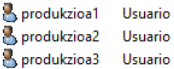
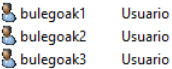
GITBOOK-27: No subject

diff --git a/sistema-eragileak.md b/sistema-eragileak.md
@@ -10,27 +10,33 @@ icon: sitemap
 **Zerbitzari nagusia:** `BUR-WINSERVER`\
 **IP:** `192.168.10.10`
 
-### **1. Domeinuko OU-ak, erabiltzaileak eta taldeak**
+## **1. Domeinuko OU-ak, erabiltzaileak eta taldeak**
 
-Lehenik
+Lehenik domeinuan burdinola izeneko OU bat sortu dugu gero bertan barruan departamentu bakoitzeko  beste bat jartzeko:
 
-Domeinua hiru **organizational unit (OU)** nagusitan banatu dugu:
+bulegoak OU
 
-1. **bulegoak**
+1. **bulegoak taldea**
    * Erabiltzaileak: _bulegoak1, bulegoak2, bulegoak3_
-   * Taldeburuak: _bulegoak1_
-2. **kalitatea**
-   * Erabiltzaileak: _kalitatea1, kalitatea2, kalitatea3_
-   * Taldeburuak: _kalitatea1_
-3. **produkzioa**
+
+kalitatea OU
+
+1.  **kalitatea taldea**
+
+    * Erabiltzaileak: _kalitatea1, kalitatea2, kalitatea3_
+
+
+
+produkzioa OU
+
+1. **produkzioa taldea**
    * Erabiltzaileak: _produkzioa1, produkzioa2, produkzioa3_
-   * Taldeburuak: _produkzioa1_
 
-Gainera, **taldeburuak** izeneko OU bat dago, non talde bakoitzeko lehenengo erabiltzaileak (_bulegoak1, kalitatea1, produkzioa1_) biltzen dira.
+Gainera, **taldeburuak** izeneko OU bat dago, non talde bakoitzeko buruak edo jefeak (_bulegoak1, kalitatea1, produkzioa1_) biltzen diren.
 
-***
+<figure><img src=".gitbook/assets/image.png" alt=""><figcaption></figcaption></figure>
 
-#### 🧠 **OU egituraren arrazoia**
+### **OU egituraren arrazoia**
 
 OU egitura hau sortu dugu **sail edo departamentu bakoitzaren arabera kudeaketa errazteko**.\
 Horrela:
@@ -39,9 +45,7 @@ Horrela:
 * Taldeburuak OU berezian bildu dira, administrazio edo kudeaketa-eskubide handiagoak izateko.
 * Egitura argiak mantentzen du sareko antolaketa eta segurtasuna.
 
-***
-
-#### 🧰 **Zerbitzariaren zerbitzuak (ROLak)**
+### **Zerbitzariaren zerbitzuak (ROLak)**
 
 `BUR-WINSERVER` zerbitzariak honako **zerbitzu eta rolak** eskaintzen ditu:
 
@@ -51,30 +55,21 @@ Horrela:
   * Rangoa: `192.168.10.100 – 192.168.10.200`
 * **Fitxategi- eta inprimagailu-zerbitzua**
 * **Bideo-zerbitzua (Jitsi Meet)**, Ubuntu zerbitzarian (IP: `192.168.10.11`)
+* Proxmox ip-a --> **192.168.10.14**
+* Ubuntu server ip-a Cups --> **192.168.10.15**
+* Bulegoak1,2,3 ip-a --> **DHCP 192.168.10.100<-->200**
+* Kalitatea1,2,3 ip-a --> **DHCP 192.168.10.100<-->200**
+* Produkzioa1,2,3 ip-a --> **DHCP 192.168.10.100<-->200**
 
-## Erabiltzaileak, taldeak eta OUak.
+## **2. Erabiltzaileen Konfigurazioa**
 
-### Erabiltzaileak
+**Hemen ikusten dugu nola bulegoak1 erabiltzaileak domeinuko ip tarte batean dagoen, dns bezala 192.168.10.10 duen eta domeinu barruan nola dagoen. Hau bulegoak OU barruan dago goian ikusi dugun bezala. Beste erabiltzaileak berdin.**
 
-<div align="left"><figure><img src=".gitbook/assets/image.png" alt=""><figcaption></figcaption></figure></div>
+<figure><img src=".gitbook/assets/image (1).png" alt=""><figcaption></figcaption></figure>
 
-<div align="left"><figure><img src=".gitbook/assets/image (1).png" alt=""><figcaption></figcaption></figure></div>
+## 3. GPO Pertsonalizatuak
 
-<div align="left"><figure><img src=".gitbook/assets/image (2).png" alt=""><figcaption></figcaption></figure></div>
-
-Hau dira gure erabiltzaileak
-
-
-
-
-
-
-
-
-
-## GPO
-
-### CMD bloqueo
+### CMD erabilera blokeatu
 
 ![](<.gitbook/assets/unknown (53).png>)
 
@@ -92,7 +87,7 @@ eskuineko click, eta sortutako gpo-a editatzen dugu. Gero joan: Configuracion de
 
 ![](<.gitbook/assets/unknown (56).png>)
 
-### FONDO
+### Fondoa
 
 ![](<.gitbook/assets/unknown (60).png>)
 
@@ -128,11 +123,47 @@ Erabiltzaile batera joaten gara eta ikusten dugu.
 
 (8 karakter minimo, karakter especiales, 1 egun mini aldatu ahal izateko, 30 egun adatu obligatorio)
 
-![](<.gitbook/assets/unknown (67).png>)![](<.gitbook/assets/unknown (68).png>)\
-\
+![](<.gitbook/assets/unknown (67).png>)![](<.gitbook/assets/unknown (68).png>)
 
+## 4. Inprimagailuen Informazioa
 
-###
+#### **Windows sistemetan inprimaketa zerbitzuko portuak eta protokoloak**
+
+Windows sistemetan inprimaketa-zerbitzua (Print Server) **TCP/IP** bidez funtzionatzen du:
+
+* **Protokolo nagusiak:**
+  * **SMB (Server Message Block)** — inprimagailu partekatuetarako
+  * **RAW (portua 9100)** — AppSocket/JetDirect motako inprimagailuak
+  * **IPP (Internet Printing Protocol, portua 631)** — inprimagailu modernoak eta web bidezko zerbitzua
+  * **LPD/LPR (portua 515)** — sistema zaharragoekin bateragarritasuna
+
+#### **Linux sistemetan inprimaketa zerbitzuko portuak eta protokoloak**
+
+Linux-en **CUPS** (Common UNIX Printing System) erabiltzen da:
+
+* **Protokoloak:**
+  * **IPP (631/tcp)** — oinarrizko inprimaketa-protokoloa
+  * **AppSocket / HP JetDirect (9100/tcp)**
+  * **LPD/LPR (515/tcp)**
+* **Administrazio web ataria:**
+  * `http://192.168.10.11:631` (Jitsi Meet zerbitzaria ez bada bakarra, beste Ubuntu bat izan daiteke inprimagailu-zerbitzaria)
+
+#### **Enpresak izango dituen inprimagailuak eta haien kokapena**
+
+| Inprimagailua       | Zerbitzaria / IP                 | Kokapena        | Deskribapena                    |
+| ------------------- | -------------------------------- | --------------- | ------------------------------- |
+| **Imp\_Bulegoak**   | `\\192.168.10.10\Imp_Bulegoak`   | Bulego nagusia  | Bulegoetako dokumentu orokorrak |
+| **Imp\_Kalitatea**  | `\\192.168.10.10\Imp_Kalitatea`  | Kalitate saila  | Txosten eta azterketa teknikoak |
+| **Imp\_Produkzioa** | `\\192.168.10.10\Imp_Produkzioa` | Produkzio gunea | Eguneroko ekoizpen-inprimaketak |
+
+#### 👥 **Erabiltzaile edo erabiltzaile talde bakoitzari esleitutako inprimagailuarekiko baimenak**
+
+| Taldea / OU     | Inprimagailua   | Baimena                                                 |
+| --------------- | --------------- | ------------------------------------------------------- |
+| **bulegoak**    | Imp\_Bulegoak   | Inprimatu ahal dute                                     |
+| **kalitatea**   | Imp\_Kalitatea  | Inprimatu ahal dute                                     |
+| **produkzioa**  | Imp\_Produkzioa | Inprimatu ahal dute                                     |
+| **taldeburuak** | Guztiak         | Inprimatu eta kudeatu ahal dute (administrazio-baimena) |
 
 ## CUPS
 

diff --git a/datu-baseak.md b/datu-baseak.md
@@ -4,11 +4,11 @@ icon: cloud-binary
 
 # Datu Baseak
 
-### 1. DBKSren aukeraketa:
+## 1. DBKSren aukeraketa:
 
 Proiektu honetarako MariaDB terminaletik instalatua aukeratu dugu. XAMPP paketeak ere MariaDB/MySQL dakarren arren, horrek Apache eta PHP bezalako beste osagai batzuk ere biltzen ditu, eta horrek sistema astunagoa eta batzuetan ezegonkorragoa bihurtzen du. Terminal bidezko instalazio zuzenarekin sistema arinagoa, egonkorragoa eta konfigurazioan kontrol handiagoa lortzen dugu.
 
-### 2. Aukeratutakoaren alde onak eta txarrak honakoak dira:
+## 2. Aukeratutakoaren alde onak eta txarrak honakoak dira:
 
 Alde onak:
 
@@ -27,7 +27,7 @@ Alde txarrak:
 
 Laburbilduz, MariaDB aukera sendoa, ekonomikoa eta eskalagarria da, nahiz eta administrazio tekniko gehiago eskatu.
 
-### 3. Honetarako hardware-eskakizunak eta baliabide ekonomikoak:
+## 3. Honetarako hardware-eskakizunak eta baliabide ekonomikoak:
 
 MariaDB zerbitzari baterako gutxieneko baldintzak (enpresa txiki baterako):
 
@@ -41,7 +41,7 @@ Kostuak:
 * Softwarea: 0 € (MariaDB doakoa da).
 * Hardwarea: Ordenagailu edo zerbitzari zahar bat berrerabiliz → kostu minimoa. Zerbitzari fisiko berri bat erosiz → 500 € inguruan. Hodeiko zerbitzaria erabiliz (AWS, Azure, OVH, …) → 10 € – 50 €/hileko instantiaren tamainaren arabera.
 
-### 4. DBKSren instalazioa:
+## 4. DBKSren instalazioa:
 
 Sistema: Ubuntu Server 24.04.1.
 
@@ -59,17 +59,17 @@ mysql\_secure\_installation aukerak (erabili ditugunak):
 * Root urrunetik sartzea baimendu (Disallow root login remotely? → N).
 * Test datu-basea kendu (Y).
 
-### 5. ntzidentziak konpondu ditu eta behar bezala funtzionatzen duela egiaztatu du:
+## 5. ntzidentziak konpondu ditu eta behar bezala funtzionatzen duela egiaztatu du:
 
 Ez dugu inzidentziarik eduki eta behar bezala funtzionatzen du.
 
 <p align="center"><img src=".gitbook/assets/unknown (14).png" alt="" data-size="original"></p>
 
-### 6. Erregistro-fitxategien eta errore-mezuen informazioa azaldu du:
+## 6. Erregistro-fitxategien eta errore-mezuen informazioa azaldu du:
 
 Goiko berdina.
 
-### 7. Lehenetsitako ezaugarriak (portuak, erabiltzailea...) eta zerbitzua pizteko/itzaltzeko baldintzak:
+## 7. Lehenetsitako ezaugarriak (portuak, erabiltzailea...) eta zerbitzua pizteko/itzaltzeko baldintzak:
 
 Portua: 3306
 
@@ -90,7 +90,7 @@ Firewall-a IP-z mugatua:
 
 * sudo ufw allow from 192.168.10.14 to any port 3306 (IP hori gure wordpress zerbitzarikoa da)
 
-### 8. Konexioei buruzko parametroak:
+## 8. Konexioei buruzko parametroak:
 
 Host: 192.168.10.12
 
@@ -100,7 +100,7 @@ Datu Base izena: burdinola\_db
 
 Adibidea: mysql -h 192.168.10.12 -P 3306 -u bulegoak1 -p burdinola\_db &#x20;
 
-### 9. Erabilitzen ari den errekurtsoak:
+## 9. Erabilitzen ari den errekurtsoak:
 
 Zerbitzuaren egoera ikusteko: systemctl status mariadb
 
@@ -108,23 +108,23 @@ Portua irekita dagoen: ss -lntp | grep 3306
 
 CPU/RAM-aren erabilera: top / htop / ps aux | grep mysqld
 
-### 10. Erabilitako erabiltzaile eta baimenak:
+## 10. Erabilitako erabiltzaile eta baimenak:
 
 Guztira 10 erabiltzaile aukeratu ditugu, guretzat optimoa dena, 3 departamentu bakoitzeko, hau da, 9 guztira eta beste 1 administratzaile generala izango dena. Horiek nahikoak dira guk behar duguna administratzeko. Ondorengoak izango ziren:
 
-#### **Root**
+### **Root**
 
 | Erabiltzailea | Pasahitza     | Baimenak |
 | ------------- | ------------- | -------- |
 | root          | Mari@db123\$$ | Dena     |
 
-#### Admin Generala
+### Admin Generala
 
 | Erabiltzailea    | Pasahitza           | Baimenak |
 | ---------------- | ------------------- | -------- |
 | burdinola\_admin | Burdinol@123\$$\_db | Dena     |
 
-#### Bulegoak
+### Bulegoak
 
 | Erabiltzaileak | Pasahitza         | Baimenak                                             |
 | -------------- | ----------------- | ---------------------------------------------------- |
@@ -132,7 +132,7 @@ Guztira 10 erabiltzaile aukeratu ditugu, guretzat optimoa dena, 3 departamentu b
 | bulegoak2      | Bulego@123\$$\_db |       select,insert,update                           |
 | bulegoak3      | Bulego@123\$$\_db |       select,insert,update                           |
 
-#### Kalitatea
+### Kalitatea
 
 | Erabiltzaileak | Pasahitza           | Baimenak                                               |
 | -------------- | ------------------- | ------------------------------------------------------ |
@@ -140,7 +140,7 @@ Guztira 10 erabiltzaile aukeratu ditugu, guretzat optimoa dena, 3 departamentu b
 | kalitatea2     | Kalitate@123\$$\_db |         select,insert,update                           |
 | kalitatea3     | Kalitate@123\$$\_db |         select,insert,update                           |
 
-#### Produkzioa
+### Produkzioa
 
 | Erabiltzaileak | Pasahitza            | Baimenak                                       |
 | -------------- | -------------------- | ---------------------------------------------- |
@@ -148,7 +148,7 @@ Guztira 10 erabiltzaile aukeratu ditugu, guretzat optimoa dena, 3 departamentu b
 | produkzioa2    | Produkzio@123\$$\_db | select,insert,update                           |
 | produkzioa3    | Produkzio@123\$$\_db | select,insert,update                           |
 
-#### Rolak
+### Rolak
 
 | Rolak       | Erabiltzaileak                                                        |
 | ----------- | --------------------------------------------------------------------- |

diff --git a/sare-zerbitzuak.md b/sare-zerbitzuak.md
@@ -4,7 +4,7 @@ icon: router
 
 # Sare zerbitzuak
 
-### 1. IP Helbideak
+## 1. IP Helbideak
 
 Zerbitzariaren ip-a --> **192.168.10.10**
 
@@ -12,7 +12,7 @@ Ubuntu server jitsi ip-a --> **192.168.10.11**
 
 Proxmox ip-a --> **192.168.10.14**
 
-Ubuntu server ip-a --> **192.168.10.15**
+Ubuntu server ip-a Cups--> **192.168.10.15**
 
 Bulegoak1,2,3 ip-a --> **DHCP 192.168.10.100<-->200**
 
@@ -20,28 +20,28 @@ Kalitatea1,2,3 ip-a --> **DHCP 192.168.10.100<-->200**
 
 Produkzioa1,2,3 ip-a --> **DHCP 192.168.10.100<-->200**
 
-### **2. DNS Konfigurazioa:**
+## **2. DNS Konfigurazioa:**
 
 **DNS zerbitzaria** gure **Windows Server**-ean konfiguratu dugu, **192.168.10.10** IP helbidean.\
 Horrela, gure sareko domeinuaren izenak **IP helbideetara bihurtzen dira automatikoki**, eta gainerako ordenagailuek zerbitzari hau erabiltzen dute izen-ebazpenerako.
 
-#### **DNS 192.168.10.10**
+### **DNS 192.168.10.10**
 
 <img src=".gitbook/assets/unknown (15).png" alt="" data-size="original">
 
-#### **Zuzena**
+### **Zuzena**
 
 Domeinu-izen bat IP helbide bihurtzen du. Hau erabiltzen da webgune edo zerbitzu baten helbidea aurkitzeko.
 
 ![](<.gitbook/assets/unknown (13).png>)
 
-#### **Alderantzizkoa**
+### **Alderantzizkoa**
 
 IP helbide bat domeinu-izen bihurtzen du. Hau erabilgarria da IP baten jatorria edo izen logikoa identifikatzeko.
 
 ![](<.gitbook/assets/unknown (16).png>)
 
-### **3. DHCP**
+## **3. DHCP**
 
 DHCP zerbitzaria sareko gailuei **IP helbideak eta sareko beste parametroak** (maskara, gateway, DNS...) automatikoki esleitzen dizkien zerbitzaria da. Horrela, ordenagailu edo gailuek **ez dute eskuz konfiguratu behar** IP helbidea; sarean sartzean, DHCP zerbitzariak automatikoki bidaltzen die konexiorako beharrezko informazioa.
 
@@ -55,17 +55,17 @@ Iraupena: 8h pasa ondoren bota eta berriro konektatzean beste berri bat emango z
 
 ![](<.gitbook/assets/unknown (42).png>)
 
-### **4. Bideo-Zerbitzua | Ubuntu Server Jitsi-meet**
+## **4. Bideo-Zerbitzua | Ubuntu Server Jitsi-meet**
 
 Bideo-zerbitzua **Ubuntu Server** batean instalatuta dago, **192.168.10.11** IP helbidean.\
 Jitsi Meet plataformak **bideokonferentzia seguruak eta kolaboratiboak** egiteko aukera ematen du, nabigatzailearen bidez, konturik gabe eta denbora errealean.\
 Sareko erabiltzaileek IP hori erabiliz sar daitezke bideotxat saioetara.
 
-#### Konfigurazioa
+### Konfigurazioa
 
 ![](<.gitbook/assets/unknown (44).png>)
 
-#### Jitsi Meet Martxan
+### Jitsi Meet Martxan
 
 ![](<.gitbook/assets/unknown (45).png>)
 
